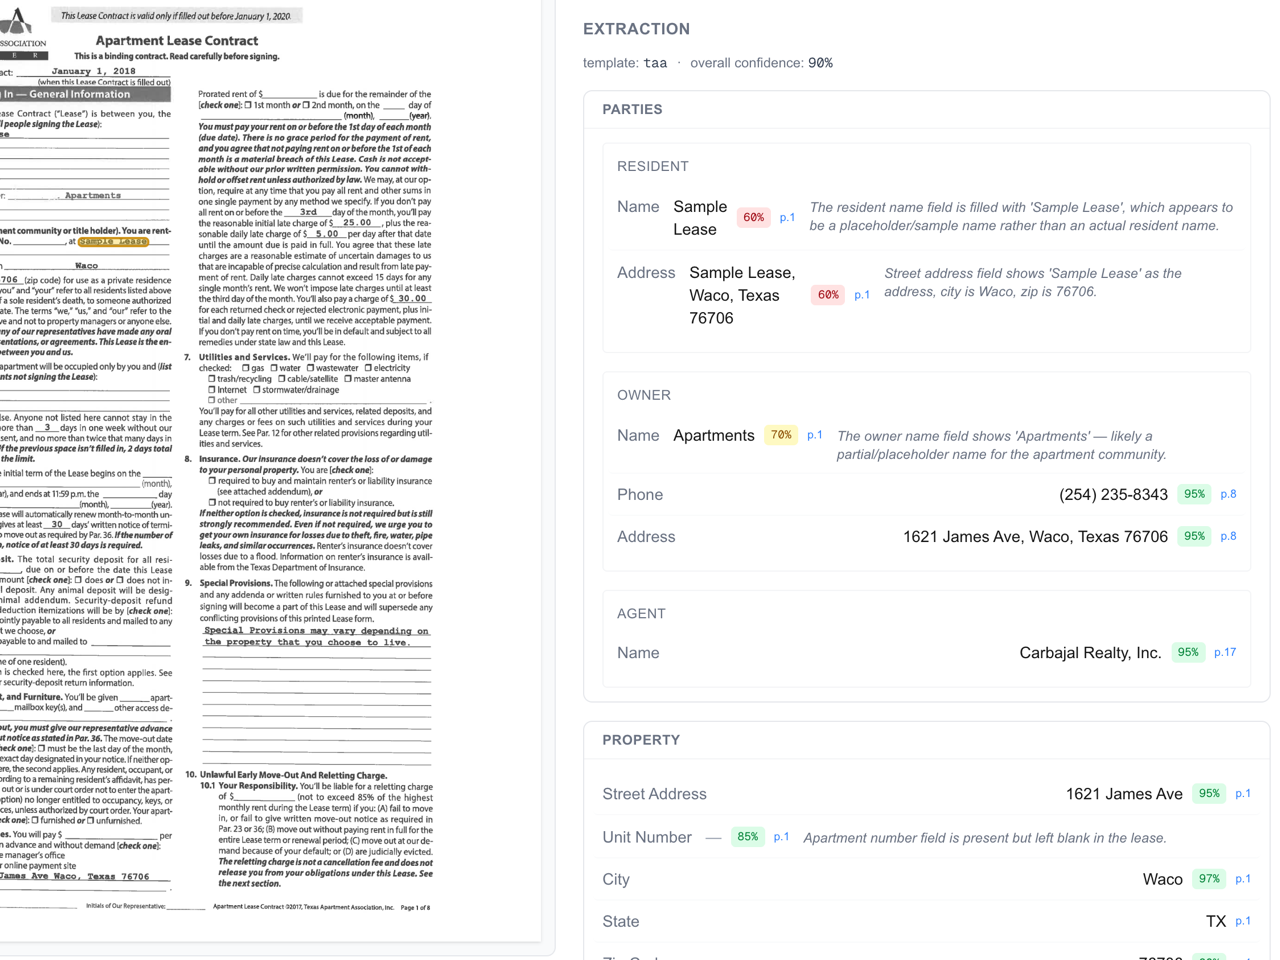
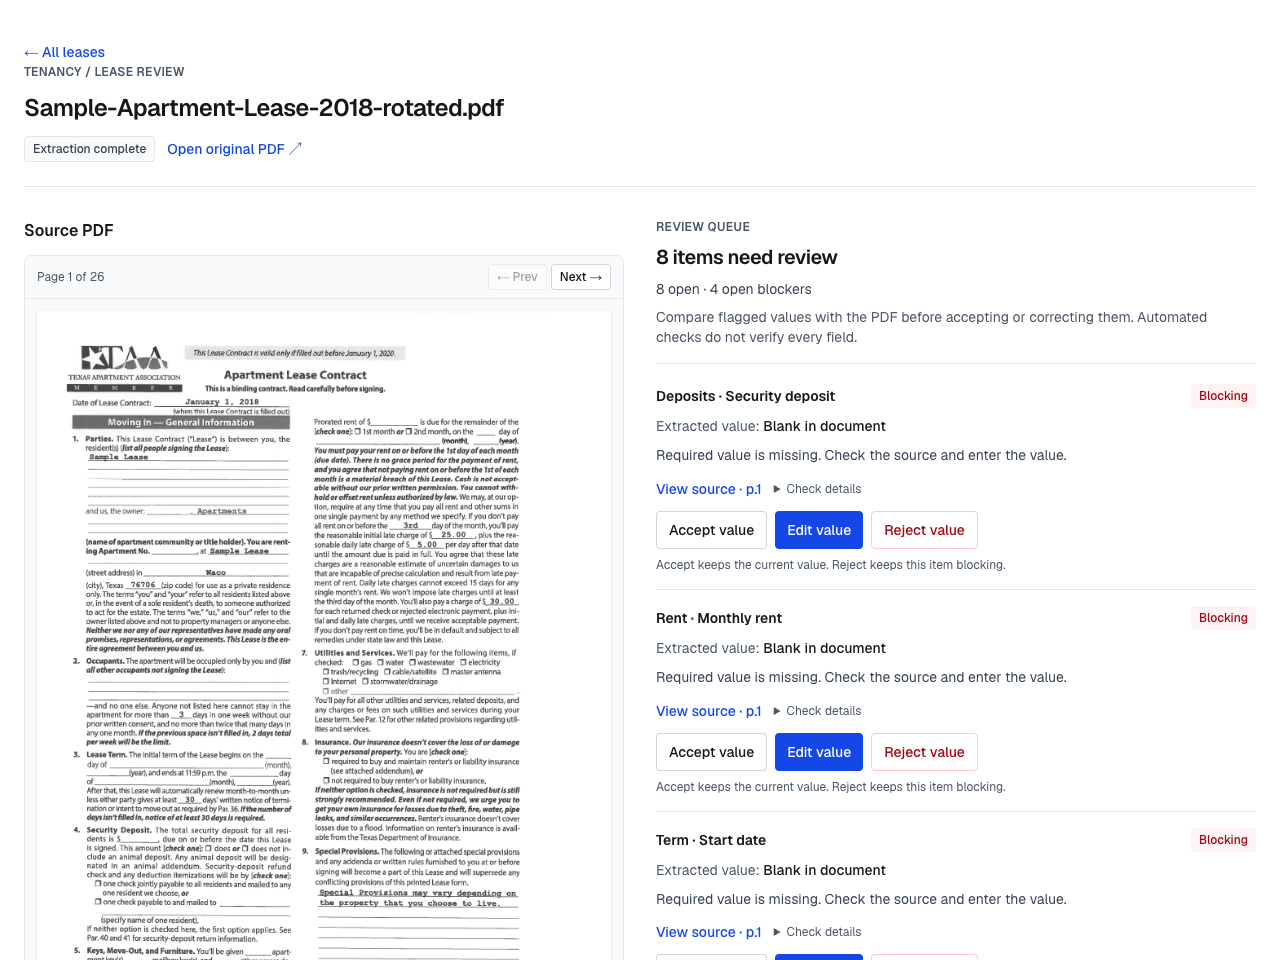
Update Tenancy case study for the live review workflow

diff --git a/src/content/work.ts b/src/content/work.ts
@@ -340,12 +340,13 @@ export const projects: Project[] = [
   {
     index: "04",
     title: "Tenancy",
-    category: "AI Document Agent",
+    category: "Lease Extraction & Review",
     summary:
-      "An AI-assisted tool that extracts key details from residential leases and shows the source pages. Reviewers can approve, correct, or reject flagged fields and ask questions about the extracted data.",
+      "A live lease-review demo that extracts nine sections, puts flagged values beside the source PDF, and keeps extraction status separate from review decisions.",
     href: "/work/tenancy",
     slug: "tenancy",
     liveHref: "https://tenancy.kristenmartino.ai",
+    liveLabel: "Open live demo",
     codeHref: "https://github.com/kristenmartino/tenancy-api",
     year: "2026",
     status: "Shipped",
@@ -353,126 +354,13 @@ export const projects: Project[] = [
     shape: "pipeline",
     image: "/work/tenancy.png",
     imageAlt:
-      "Tenancy lease detail view — a page-one residential lease with a source highlight on the resident-name field, beside the structured extraction panel showing per-field confidence scores and source citations.",
+      "Tenancy's live lease review screen with the source PDF beside eight review items, four open blockers, and a separate Extraction complete label.",
     metrics: [
-      "9 lease sections · per-field citations",
-      "OCR-anchored highlight overlays (pdfplumber)",
-      "Approve / edit / reject review queue",
-      "FastAPI · LangGraph · Claude · MCP",
+      "9 lease sections",
+      "Review queue + saved corrections",
+      "PDF source links + OCR highlights",
+      "6 MCP tools · shared backend",
     ],
-    artifact: {
-      problem: {
-        situation:
-          "Multifamily operators turn lease PDFs into structured data at portfolio scale — during acquisitions, audits, and renewals. An LLM can read a lease and emit the fields; that part is close to free. The schema was never the hard part.",
-        complication:
-          "The hard part is trust. A reviewer will not accept an extracted field — a rent amount, a deposit, a term date — without seeing where in the document it came from. Building that \"click a field, highlight the source\" link is where the system actually broke: twelve-plus iterations of fuzzy text matching produced confident, wrong-place highlights; a strict exact-match fixed wrong-place by failing silently; and asking the model to emit bounding boxes drifted three to eight percent and boxed entire section headers when the field was a blank template placeholder.",
-        question:
-          "Can the highlight be anchored to the document — trustworthy enough that a reviewer relies on it — given that a wrong highlight erodes trust faster than no highlight at all?",
-      },
-      requirements: [
-        {
-          stakeholder: "Property-management reviewer",
-          need: "Every extracted field traceable to its page with a visible highlight on the source line. A highlight in the wrong place is worse than none — it teaches the reviewer to distrust the tool.",
-          evidence: "Design rule: a silent miss beats a confident wrong-place highlight",
-        },
-        {
-          stakeholder: "Risk / compliance",
-          need: "Nothing reaches the system of record until a human approves, edits, or rejects each flagged exception; a rejected blocker keeps the lease out of the ready state.",
-          evidence: "ready_to_proceed derived per lease, gated on unresolved blockers",
-        },
-        {
-          stakeholder: "Extraction honesty",
-          need: "When a field is genuinely blank in the lease, report a null value at high confidence rather than inventing a plausible one.",
-          evidence: "match_type ∈ filled / blank / inferred / checkbox / absent",
-        },
-        {
-          stakeholder: "Engineer maintaining it",
-          need: "The highlight's coordinate source must be swappable — model vision, OCR alignment, AWS Textract — without rewriting the renderer.",
-          evidence: "Frontend consumes bboxes: BoundingBox[]; the source stays backend-internal",
-        },
-      ],
-      decisions: {
-        criteria: [
-          "Positional accuracy",
-          "Honest failure mode",
-          "Works on blank + scanned fields",
-          "Build effort",
-        ],
-        options: [
-          {
-            option: "Fuzzy text-layer matching (heuristic, 12+ iterations)",
-            scores: ["partial", "unmet", "unmet", "unmet"],
-          },
-          {
-            option: "Strict exact-normalized text match (silent miss on no match)",
-            scores: ["partial", "met", "unmet", "met"],
-          },
-          {
-            option: "Model-emitted bounding boxes (Claude vision)",
-            scores: ["partial", "partial", "partial", "met"],
-          },
-          {
-            option:
-              "OCR-anchored bboxes — pdfplumber word positions + rapidfuzz snippet alignment, one rect per line",
-            chosen: true,
-            scores: ["met", "met", "met", "partial"],
-            rationale:
-              "The model returns {value, snippet, match_type, section_label} and never coordinates; the backend aligns the snippet against pdfplumber's word-level positions in the OCR'd PDF and emits one bounding box per line, following the PDF spec's QuadPoints highlight model. The pattern I found across the OCR and document-layout tooling I looked at was consistent enough to commit to: let OCR own geometry, let the model own semantics, and never ask the model to emit coordinates from a raster — that is exactly where model-estimated boxes drift. The renderer consumes a bbox array and is agnostic to where the boxes came from, so the production-grade upgrade (Textract SELECTION_ELEMENT for checkbox and signature geometry) is a backend swap, not a rewrite. The build cost is higher than letting the model emit coordinates — but that option fails exactly where it matters, on the blank and scanned fields a reviewer most needs to verify.",
-          },
-        ],
-      },
-      solution: {
-        summary:
-          "A lease abstraction agent that extracts nine structured sections with per-field provenance, anchors every highlight to OCR coordinates rather than model estimation, gates output behind a human-review exception queue, and answers grounded questions over the result — exposed as both a SaaS UI and an MCP server over the same backend.",
-        pillars: [
-          {
-            title: "Page-image-grounded extraction",
-            detail:
-              "Claude Sonnet extracts nine sections (parties, property, term, rent, deposits, utilities, pets, special clauses, compliance) over OCR'd text plus a rendered PNG of each page. The image is ground truth for visual fields — checkboxes, signatures, hand-fill — and the OCR text is ground truth for dense prose. That split fixed a class of false-positive checkbox reads where OCR noise looked like a mark.",
-          },
-          {
-            title: "OCR-anchored highlight overlays",
-            detail:
-              "The backend aligns each field's source snippet against pdfplumber word positions and emits one bounding box per line; the frontend draws absolutely-positioned overlays scaled to the rendered page. Filled values land tight, multi-line values render as stacked rectangles, and blank template fields anchor on the labeled blank line rather than the section header above it.",
-          },
-          {
-            title: "Exception queue with real resolve semantics",
-            detail:
-              "Validation rules (required-field presence, date order, confidence thresholds) flag exceptions as blocking or warning. Approve accepts the current value; edit rewrites the extraction at the field path and bumps confidence to 1.0; reject closes the row for audit but keeps the blocker material. A derived ready_to_proceed flag gates the lease.",
-          },
-          {
-            title: "Grounded Q&A + MCP surface",
-            detail:
-              "Claude Haiku answers questions over the stored extraction — every answer cites field path, page, and snippet, and the citation clicks through to the same highlight. The whole agent is also a six-tool MCP server (list, get, extract, query, list-exceptions, resolve), so it runs inside Claude Desktop against the same Railway backend.",
-          },
-        ],
-      },
-      outcome: {
-        kind: "metrics",
-        items: [
-          {
-            metric: "Extraction",
-            after: "9 sections, per-field citations",
-            note: "Page, snippet, and confidence on every value; honest null on blank fields",
-          },
-          {
-            metric: "Highlight",
-            after: "OCR-anchored, not model-estimated",
-            note: "Filled tight · multi-line stacked · blank fields on the blank line · verified end-to-end on a fresh lease",
-          },
-          {
-            metric: "Coverage, stated honestly",
-            after: "Checkboxes / signatures not highlighted",
-            note: "Deferred to a Textract follow-up — a silent miss beats a wrong-place box",
-          },
-          {
-            metric: "Surfaces",
-            after: "SaaS UI + 6-tool MCP server",
-            note: "One FastAPI / LangGraph backend · Sonnet extract · Haiku Q&A",
-          },
-        ],
-      },
-    },
   },
   {
     index: "05",
